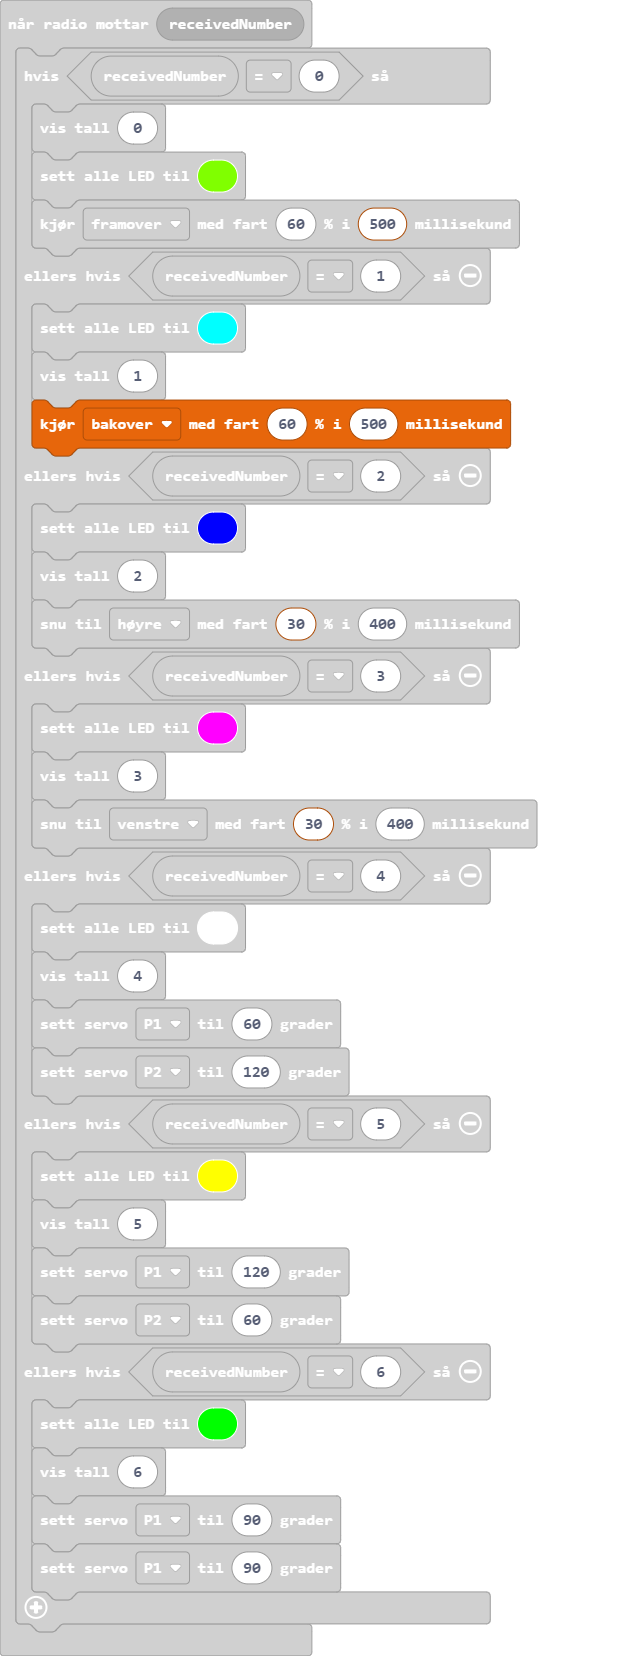
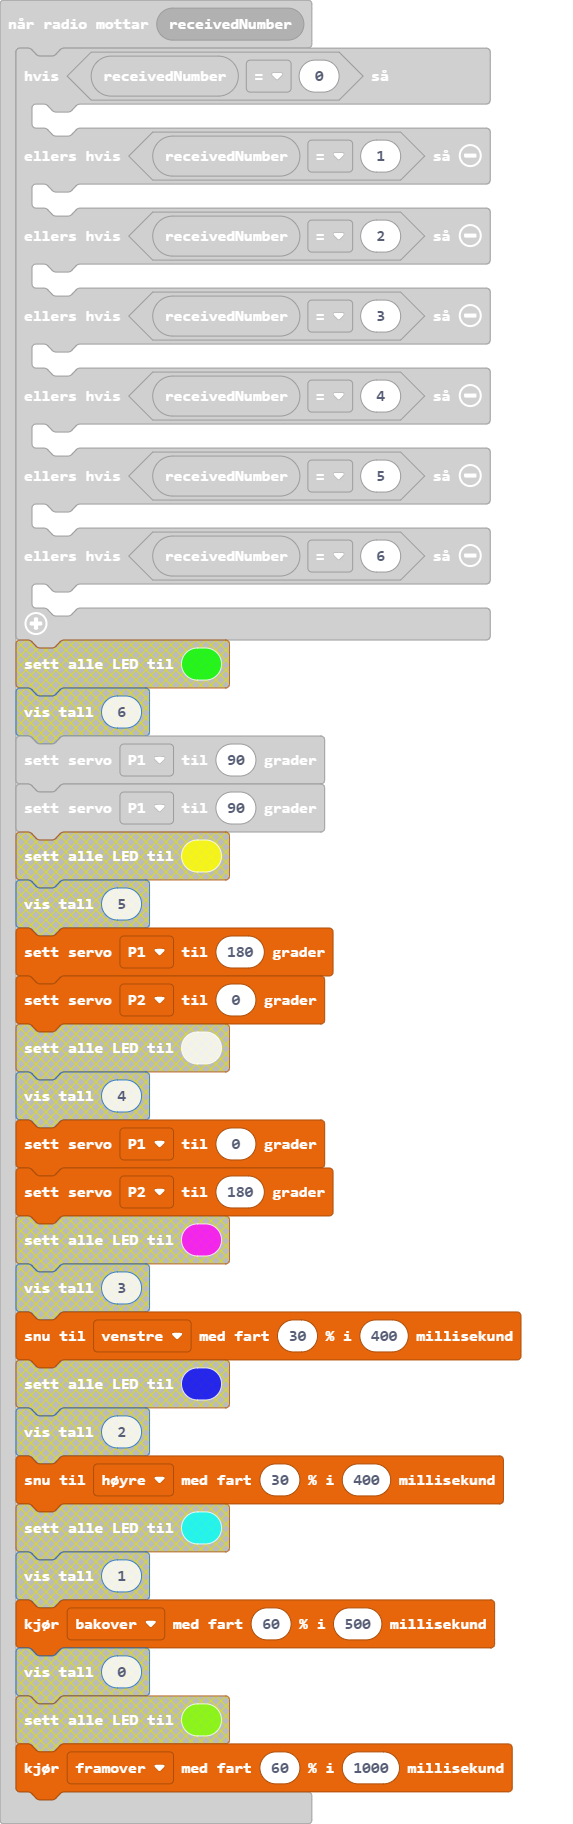
Oppdater main.blocks, main.ts

diff --git a/main.ts b/main.ts
@@ -1,33 +1,19 @@
 radio.onReceivedNumber(function (receivedNumber) {
     if (receivedNumber == 0) {
-        basic.showNumber(0)
-        bitbot.setLedColor(0x80FF00)
-        bitbot.goms(BBDirection.Forward, 60, 500)
+        bitbot.goms(BBDirection.Forward, 60, 1000)
     } else if (receivedNumber == 1) {
-        bitbot.setLedColor(0x00FFFF)
-        basic.showNumber(1)
         bitbot.goms(BBDirection.Reverse, 60, 500)
     } else if (receivedNumber == 2) {
-        bitbot.setLedColor(0x0000FF)
-        basic.showNumber(2)
         bitbot.rotatems(BBRobotDirection.Right, 30, 400)
     } else if (receivedNumber == 3) {
-        bitbot.setLedColor(0xFF00FF)
-        basic.showNumber(3)
         bitbot.rotatems(BBRobotDirection.Left, 30, 400)
     } else if (receivedNumber == 4) {
-        bitbot.setLedColor(0xFFFFFF)
-        basic.showNumber(4)
-        bitbot.bbSetServo(BBServos.P1, 60)
-        bitbot.bbSetServo(BBServos.P2, 120)
+        bitbot.bbSetServo(BBServos.P1, 0)
+        bitbot.bbSetServo(BBServos.P2, 180)
     } else if (receivedNumber == 5) {
-        bitbot.setLedColor(0xFFFF00)
-        basic.showNumber(5)
-        bitbot.bbSetServo(BBServos.P1, 120)
-        bitbot.bbSetServo(BBServos.P2, 60)
+        bitbot.bbSetServo(BBServos.P1, 180)
+        bitbot.bbSetServo(BBServos.P2, 0)
     } else if (receivedNumber == 6) {
-        bitbot.setLedColor(0x00FF00)
-        basic.showNumber(6)
         bitbot.bbSetServo(BBServos.P1, 90)
         bitbot.bbSetServo(BBServos.P1, 90)
     }
